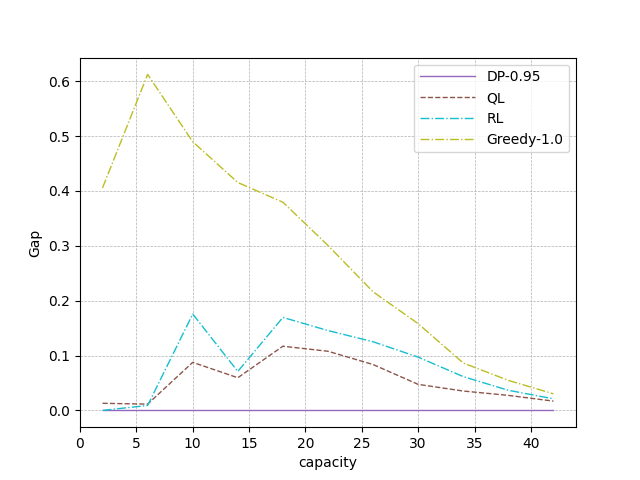
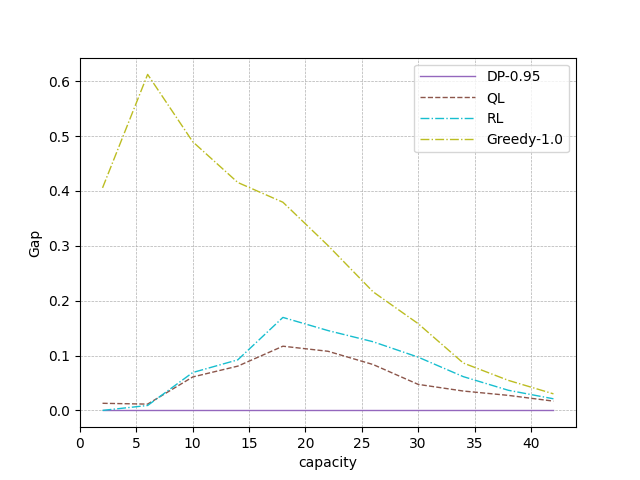
check capacity results

diff --git a/Single-Provider-Federation/quota-rejection/check-local-capacity/sim.py b/Single-Provider-Federation/quota-rejection/check-local-capacity/sim.py
@@ -34,7 +34,7 @@ if __name__ == "__main__":
     
     init_size = 2
     step = 4
-    scale = 10
+    scale = 15
 
     iterations = 10
     
